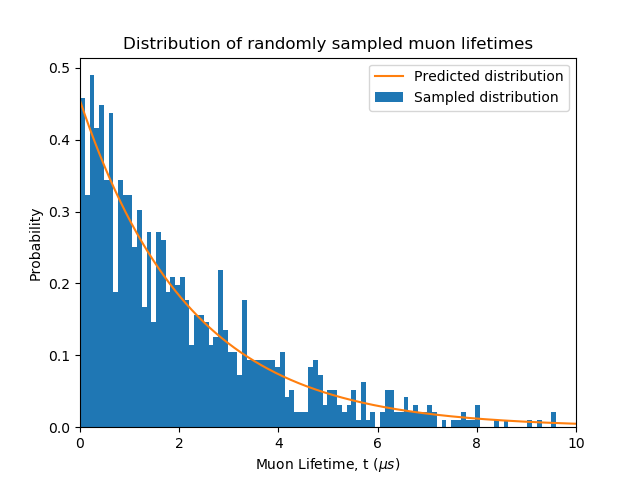
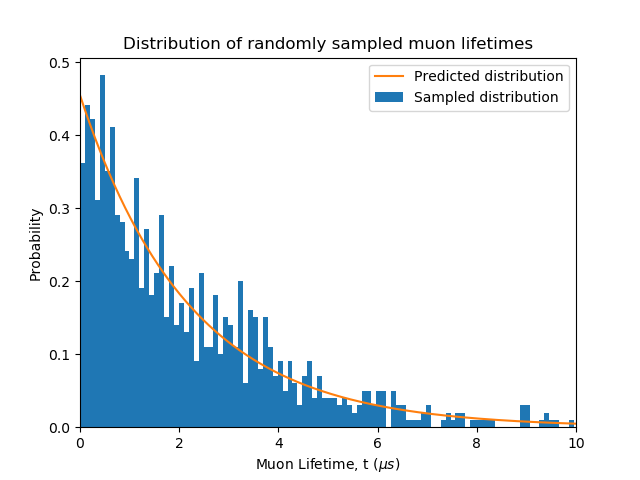
Added plots

diff --git a/week-3/src/runSimulation.py b/week-3/src/runSimulation.py
@@ -11,7 +11,7 @@ def main():
     """
     MU_LIFETIME_TRUTH = 2.2         # in microseconds
     NUM_SAMPLES = 1000
-    NUM_SIMULATIONS = 500
+    NUM_SIMULATIONS = 3000
     LIMITS_1 = (0, 10)
     LIMITS_2 = (0, 5)
     LIMITS_3 = (0, 100)
@@ -25,7 +25,7 @@ def main():
     print(f"The simulated average muon lifetime with range 0 < t < 10 is {muonSimulation.computeEstimatedLifetime():.3f} mu s")
 
     # Plot distribution of sampled lifetimes with predicted distribution
-    plt.hist(sampledMuonLifetimes, bins=100, label="Sampled distribution", density=True)
+    plt.hist(sampledMuonLifetimes, bins=100, density=True, label="Sampled distribution")
     plt.plot(TIME, muonSimulation.exponantialTruth(TIME, MU_LIFETIME_TRUTH),label="Predicted distribution") 
     plt.xlabel("Muon Lifetime, t ($\mu s$)")
     plt.ylabel("Probability")
@@ -63,6 +63,7 @@ def main():
         simulatedLifetimesLowLimits,
         simulatedLifetimesHighLimits
     ]
+
     overallLabels = [
         "limits: 0 < t < 10",
         "limits: 0 < t < 5",
